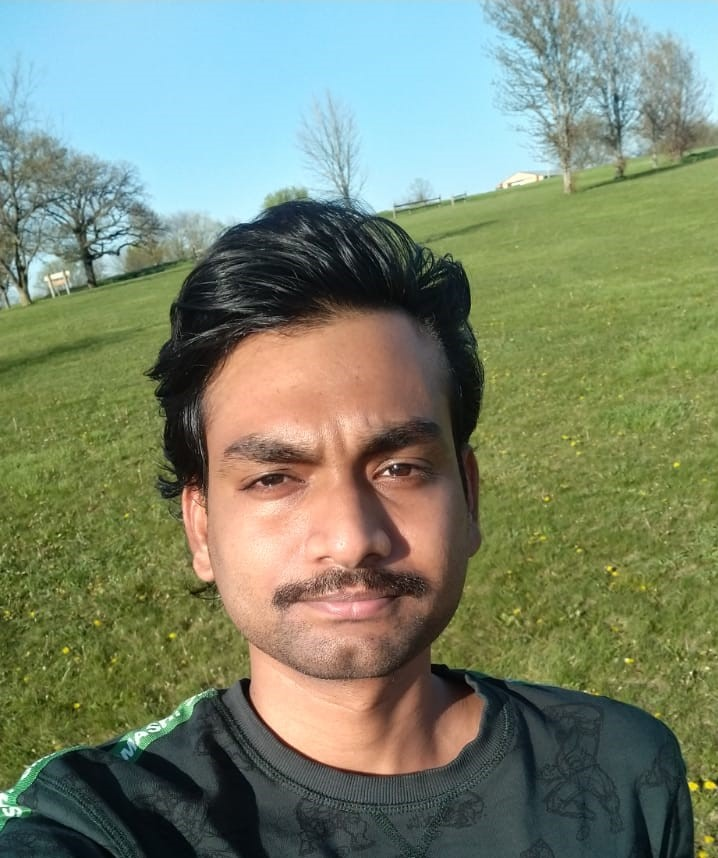
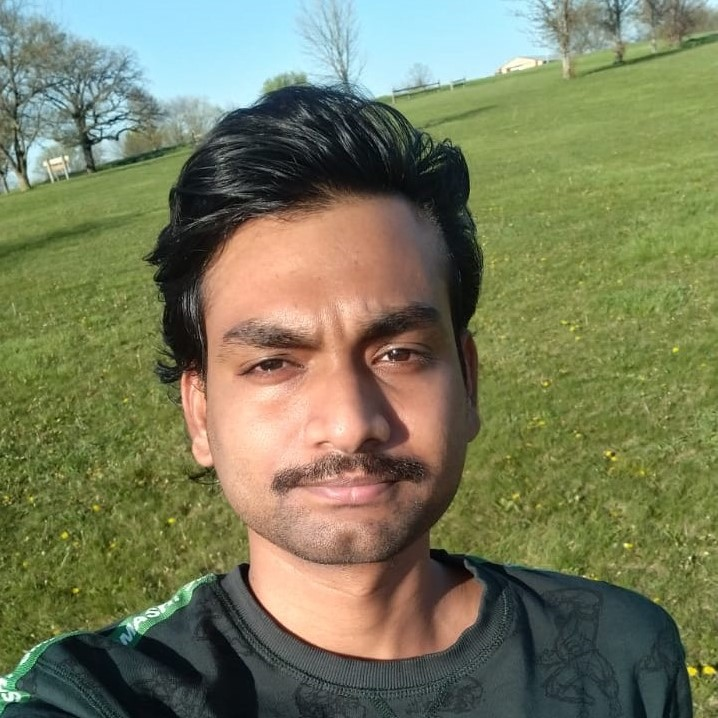
Resized the images

diff --git a/README.md b/README.md
@@ -11,10 +11,13 @@
   * Marriages are made in heaven but FateBook will help you find your partner on earth. We provide excellent matchmaking and marriage related services. Fatebook can help you     find your soulmate who has a lot of similarities and share same ideologies.
 ## Our Team 
  * Kunal Vohra - Scrum Master <br>
-  <img src="images/Kunal.png" height="300px" alt="Kunal Vohra">
+  <img src="images/Kunal.jpg" height="300px" alt="Kunal Vohra">
+
  * Goutham Kumar Adunuri - Project Manager <br>
   <img src="images/Goutham.jpeg" height="300px" alt="Goutham Kumar Adunuri">
+
  * Nikhil Reddy Pannala - Developer <br>
-  <img src="images/Nikhil.png" height="300px" alt="Nikhil Reddy Pannala">
+  <img src="images/Nikhil.jpg" height="300px" alt="Nikhil Reddy Pannala">
+  
  * Vamshi Krishna Thirunagari - Designer <br>
-  <img src="images/Vamshi.png" height="300px" alt="Vamshi Krishna Thirunagari">
+  <img src="images/Vamshi.jpeg" height="300px" alt="Vamshi Krishna Thirunagari">
